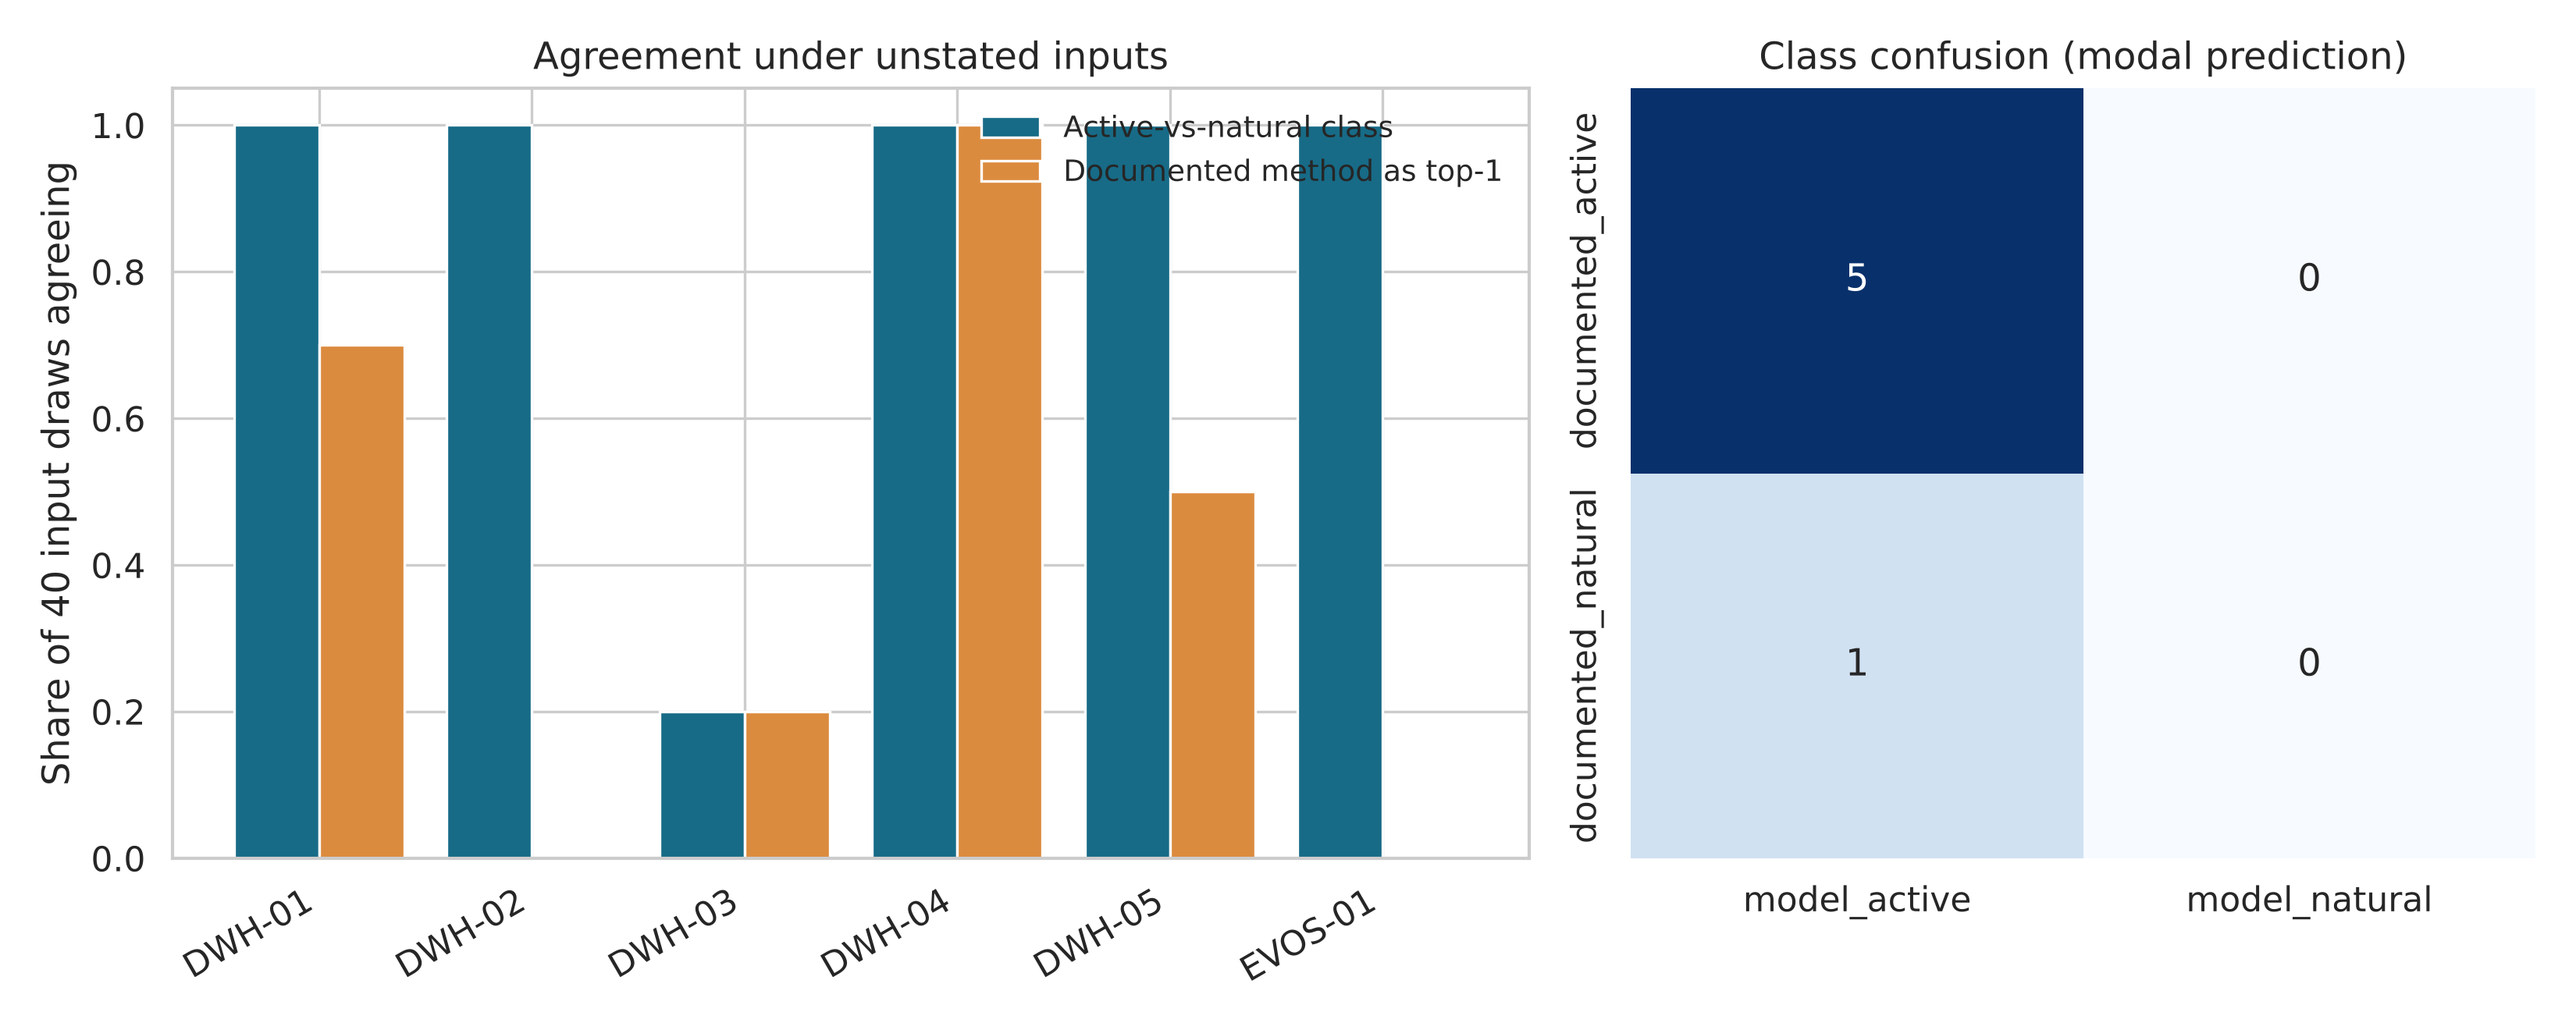
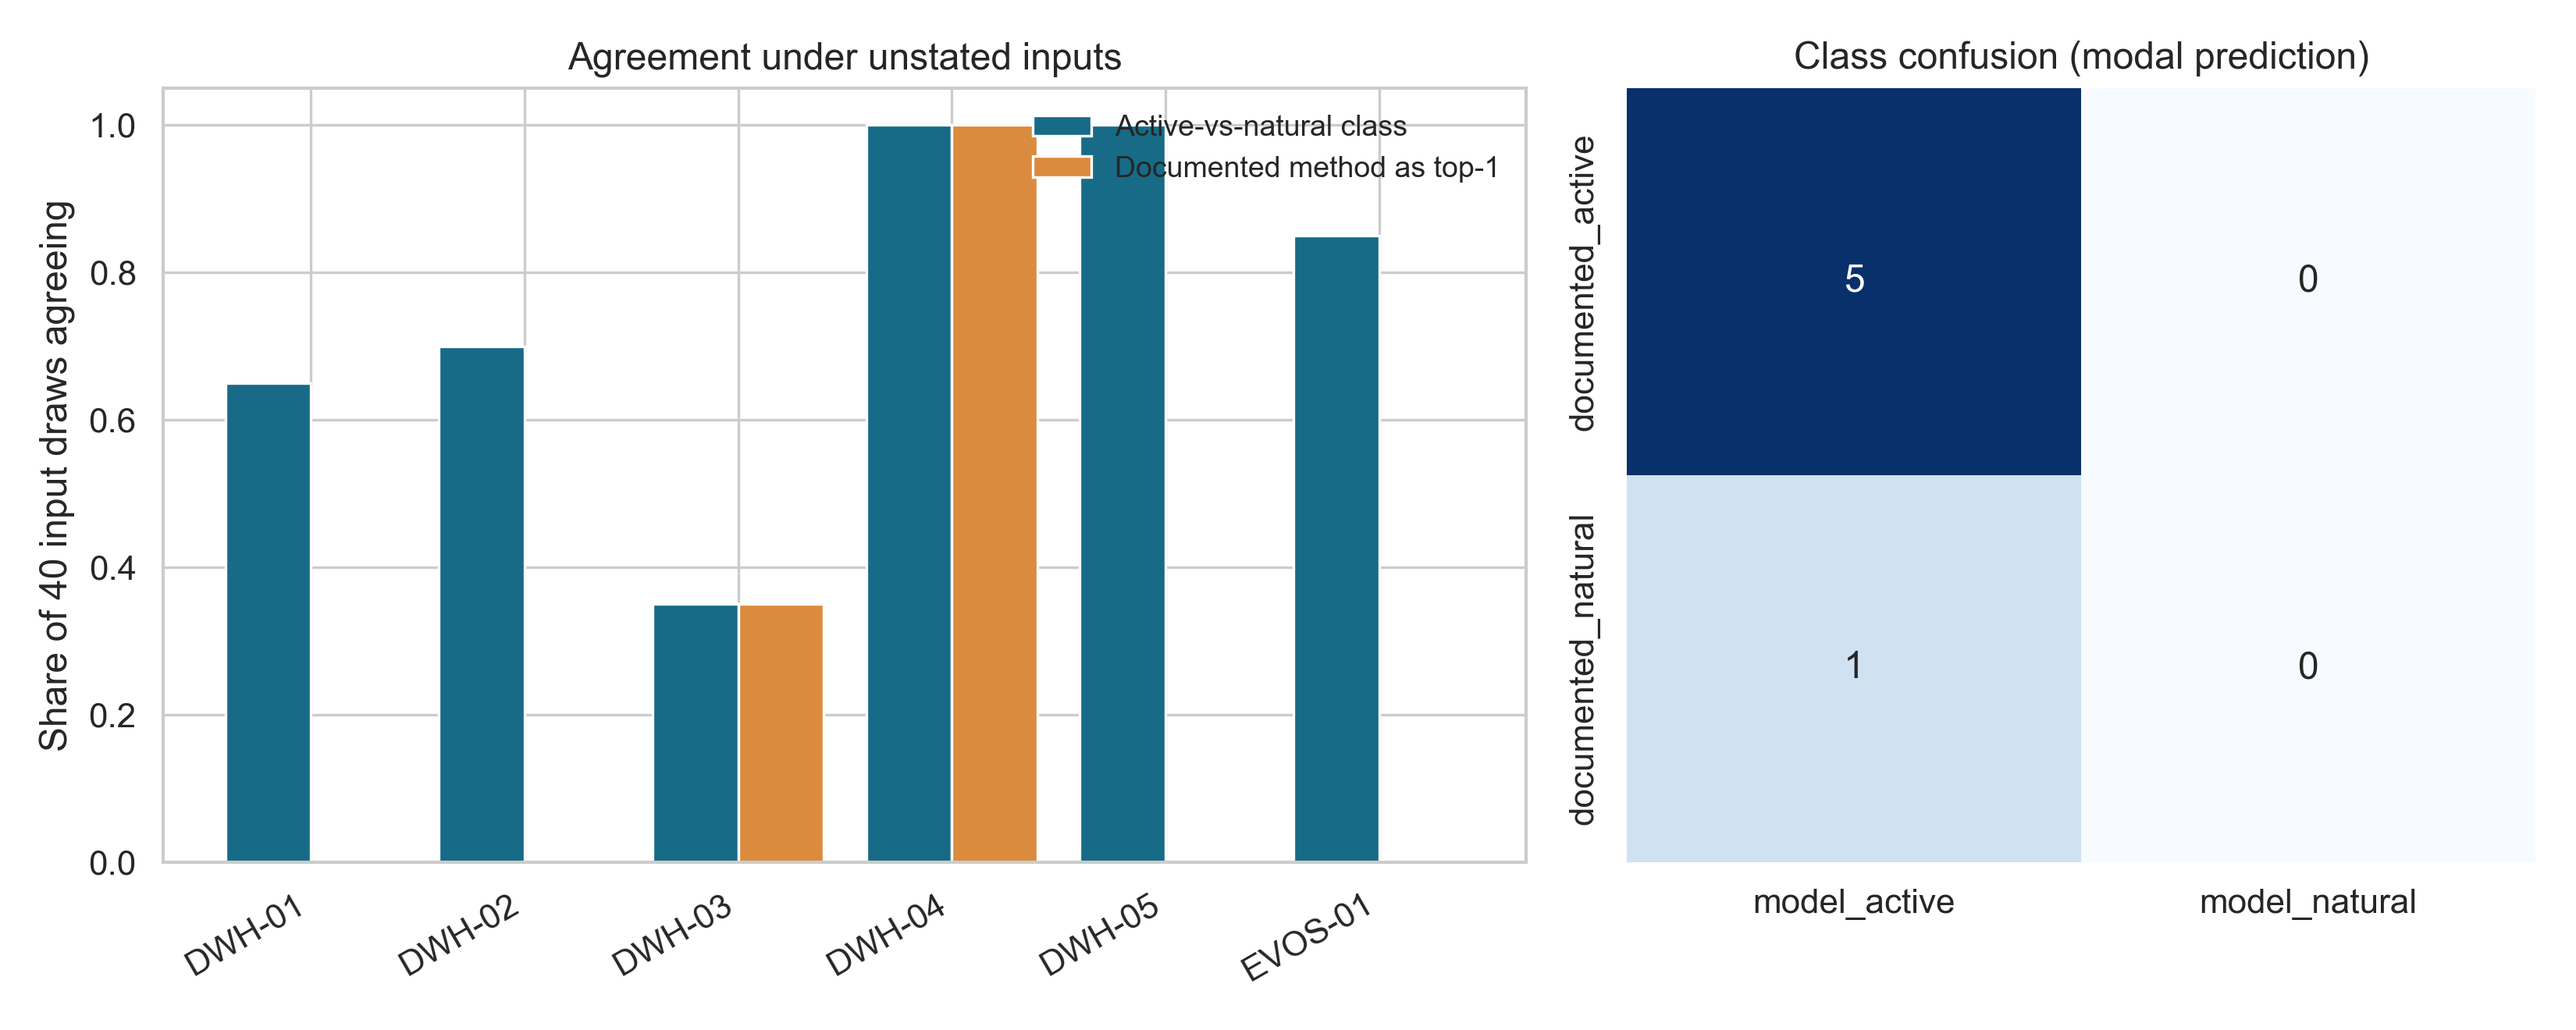
R2: synthetic GPR suitability out of the decision path (D26), opt-in for the method test; SCAT checks and historical validation rerun (v3 results kept in results/historical_v3)

diff --git a/tests/test_ranking.py b/tests/test_ranking.py
@@ -22,7 +22,14 @@ from src.shoreline_remediation.fast_engine import FASTRuleEngine  # noqa: E402
 
 @pytest.fixture(scope="module")
 def model() -> HybridDecisionModel:
-    trained = HybridDecisionModel()
+    """Default decision path (D26): rule screening plus ecological ordering, no synthetic suitability."""
+    return HybridDecisionModel()
+
+
+@pytest.fixture(scope="module")
+def synthetic() -> HybridDecisionModel:
+    """Method test only: GPR suitability trained on rule-generated labels."""
+    trained = HybridDecisionModel(use_synthetic_suitability=True)
     trained.train_treatment_models()
     return trained
 
@@ -34,8 +41,15 @@ def rank_of(model, scenario, treatment) -> int:
     return [score.treatment for score in model.rank_treatments(scenario)].index(treatment) + 1
 
 
-def test_every_treatment_is_listed_and_unscored_ones_come_last_within_a_tier(model):
-    ranked = model.rank_treatments(Scenario("sand_beach", oil_category="heavy"))
+def test_decision_path_uses_no_synthetic_suitability(model):
+    ranked = model.rank_treatments(Scenario("marsh", oil_category="heavy", oil_coverage=80, oil_thickness=20))
+    assert sorted(score.treatment for score in ranked) == sorted(TREATMENT_LIBRARY)
+    assert all(math.isnan(score.suitability) and score.evidence == "screening_only" for score in ranked)
+    assert not model.treatment_models  # the GPR layer is never trained on the decision path
+
+
+def test_every_treatment_is_listed_and_unscored_ones_come_last_within_a_tier(synthetic):
+    ranked = synthetic.rank_treatments(Scenario("sand_beach", oil_category="heavy"))
     assert sorted(score.treatment for score in ranked) == sorted(TREATMENT_LIBRARY)
     keys = [(TIER[score.feasibility], score.evidence == "none") for score in ranked]
     assert keys == sorted(keys)  # within a feasibility tier, scored treatments first
@@ -43,9 +57,8 @@ def test_every_treatment_is_listed_and_unscored_ones_come_last_within_a_tier(mod
         assert math.isnan(score.suitability) == (score.evidence == "none")  # no placeholder scores
 
 
-
-
-def test_no_ineligible_treatment_ranks_above_an_allowed_one(model):
+@pytest.mark.parametrize("path", ["model", "synthetic"])
+def test_no_ineligible_treatment_ranks_above_an_allowed_one(path, request):
     """V4 R1: scored-but-ineligible options used to keep 0.4*E and sort above unscored eligible options."""
     from src.shoreline_remediation.expert_scoring import build_scoring_sheet
 
@@ -55,6 +68,7 @@ def test_no_ineligible_treatment_ranks_above_an_allowed_one(model):
     fields = set(Scenario.__dataclass_fields__)
     for _, row in build_scoring_sheet().iterrows():
         scenarios.append(Scenario(**{k: v for k, v in row.items() if k in fields}))
+    model = request.getfixturevalue(path)
     for scenario in scenarios:
         ranked = model.rank_treatments(scenario)
         tiers = [TIER[score.feasibility] for score in ranked]
@@ -62,18 +76,20 @@ def test_no_ineligible_treatment_ranks_above_an_allowed_one(model):
         assert all(score.utility == 0.0 for score in ranked if score.feasibility == "ineligible")
 
 
-def test_top_choice_depends_on_the_scenario(model):
-    """The ranking used to return passive sorbents first for every scenario."""
+def test_top_choice_depends_on_the_scenario(synthetic):
+    """Method test: the GPR ranking used to return passive sorbents first for every scenario."""
     scenarios = [
         Scenario("sand_beach", oil_category="heavy", oil_coverage=40, oil_thickness=10),
         Scenario("marsh", shoreline_sensitivity="very_high", oil_category="medium", oil_coverage=15, oil_thickness=2),
         Scenario("marsh", shoreline_sensitivity="very_high", oil_category="heavy", oil_coverage=80, oil_thickness=25),
     ]
-    assert len({model.rank_treatments(scenario)[0].treatment for scenario in scenarios}) >= 2
+    assert len({synthetic.rank_treatments(scenario)[0].treatment for scenario in scenarios}) >= 2
 
 
-def test_thick_oil_moves_the_ranking_away_from_natural_attenuation(model):
-    """Check E3: the Deepwater Horizon marsh endpoints required no thick (> 1 cm) oil."""
+def test_thick_oil_moves_the_ranking_away_from_natural_attenuation(synthetic):
+    """Check E3, method test only: met by the synthetic labels, which were edited to meet it. The decision path
+    has no thickness evidence until literature coefficients are added (V4 R2)."""
+    model = synthetic
     rng = np.random.default_rng(3)
     thin, thick = [], []
     for _ in range(20):

diff --git a/src/shoreline_remediation/decision_framework.py b/src/shoreline_remediation/decision_framework.py
@@ -11,10 +11,17 @@ from .ml_models import GaussianProcessSuitabilityModel, make_synthetic_dataset
 
 
 class HybridDecisionModel:
-    """Hybrid decision-support framework combining FAST feasibility and ML suitability."""
+    """Rule screening plus ecological ordering; the rule-trained ML suitability layer is opt-in only.
 
-    def __init__(self):
+    Default (decision path, D26): feasibility from the FAST-like rules, then an ASSUMED ecological (do-no-harm)
+    score orders options within a feasibility tier. No suitability score is used, because the only labels
+    available are generated from hand-written rules. `use_synthetic_suitability=True` restores the GPR layer
+    for the "Method test (synthetic data)" view only. Literature effect coefficients enter here later (V4 R2, F2).
+    """
+
+    def __init__(self, use_synthetic_suitability: bool = False):
         self.fast_engine = FASTRuleEngine()
+        self.use_synthetic_suitability = use_synthetic_suitability
         self.treatment_models = {}
         self._trained = False
 
@@ -46,6 +53,19 @@ class HybridDecisionModel:
 
     def score_treatment(self, scenario: Scenario, treatment: str) -> TreatmentScore:
         feasibility = self.fast_engine._classify_treatment(treatment, scenario)
+
+        if not self.use_synthetic_suitability:
+            ecological_suitability = self._ecological_score(treatment, scenario)
+            return TreatmentScore(
+                treatment=treatment, feasibility=feasibility, suitability=float("nan"),
+                ecological_suitability=ecological_suitability,
+                utility=0.0 if feasibility == "ineligible" else round(ecological_suitability, 2),
+                confidence={"eligible": 0.6, "conditional": 0.4, "ineligible": 0.2}[feasibility],
+                reason=f"{treatment}: rule screening; ordered within its tier by an ASSUMED ecological score "
+                       "(no outcome-based suitability yet); "
+                       + self._reason_for_treatment(treatment, scenario, feasibility).split(": ", 1)[1],
+                evidence="screening_only",
+            )
 
         if not self._trained:
             self.train_treatment_models()

diff --git a/src/shoreline_remediation/dashboard.py b/src/shoreline_remediation/dashboard.py
@@ -591,6 +591,9 @@ def render_scenario_view() -> None:
             for index, result in enumerate(results, start=1)
         ])
         st.dataframe(ranking_frame, hide_index=True, width="stretch")
+        st.caption("Order: rule feasibility tier first (eligible, conditional, ineligible), then an ASSUMED ecological "
+                   "score (lower disturbance first). This is not an effectiveness ranking: the synthetic suitability "
+                   "score is out of the decision path (D26) until literature-based effect coefficients are added.")
 
     with process_tab:
         st.subheader("Cross-shore transport simulation")
@@ -689,7 +692,7 @@ def render_scenario_view() -> None:
             with st.expander(f"{index}. {result.treatment.replace('_', ' ').title()} | {result.feasibility.title()} | utility {result.utility:.2f}", expanded=index == 1):
                 ecological = ecological_explanation(load_model(), result.treatment, analyzed_scenario)
                 detail_columns = st.columns(4)
-                detail_columns[0].metric("Suitability", f"{result.suitability:.2f} / 10")
+                detail_columns[0].metric("Suitability", "not used (D26)" if np.isnan(result.suitability) else f"{result.suitability:.2f} / 10")
                 detail_columns[1].metric("Ecological fit", f"{result.ecological_suitability:.2f} / 10")
                 detail_columns[2].metric("Utility", f"{result.utility:.2f} / 10")
                 detail_columns[3].metric("Confidence", f"{result.confidence:.0%}")

diff --git a/src/shoreline_remediation/data_model.py b/src/shoreline_remediation/data_model.py
@@ -36,6 +36,7 @@ class TreatmentScore:
     reason: str
     # "synthetic_rules": suitability comes from a model trained on rule-generated labels (not field data).
     # "none": no suitability labels exist for this treatment, so it is listed after the scored treatments.
+    # "screening_only": default decision path (D26); no suitability score is used.
     evidence: str = "synthetic_rules"
 
 
